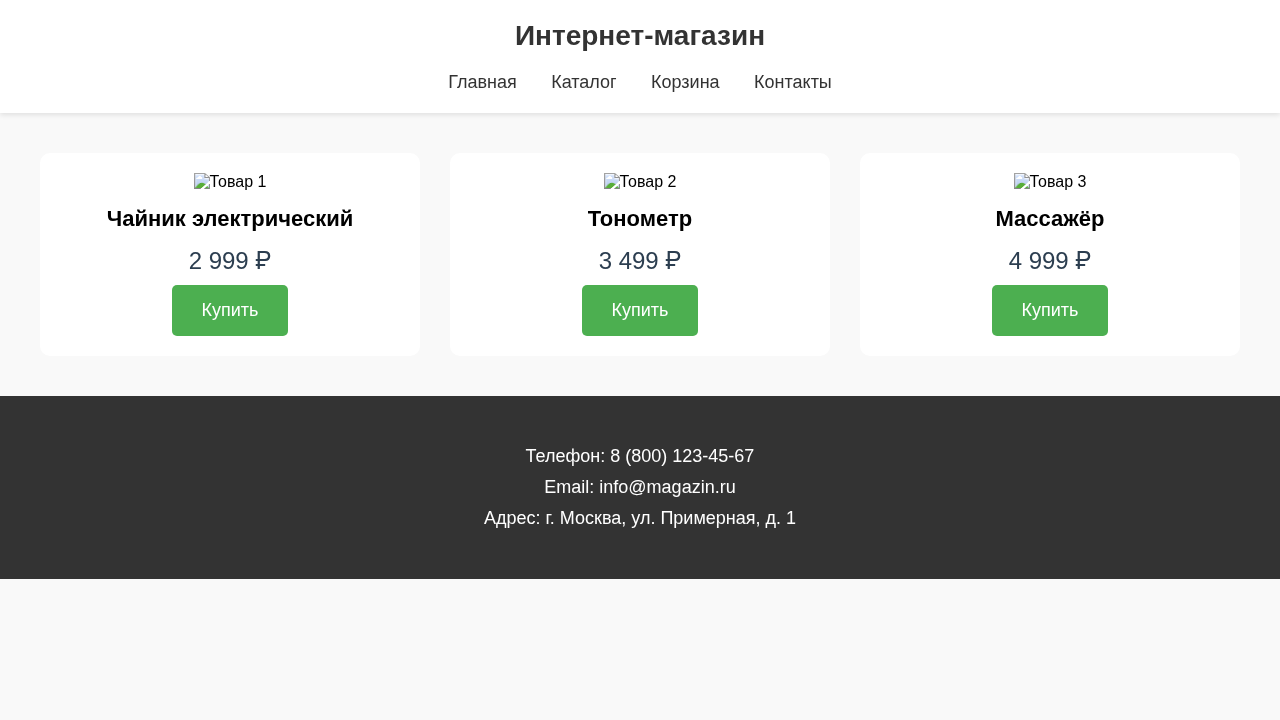
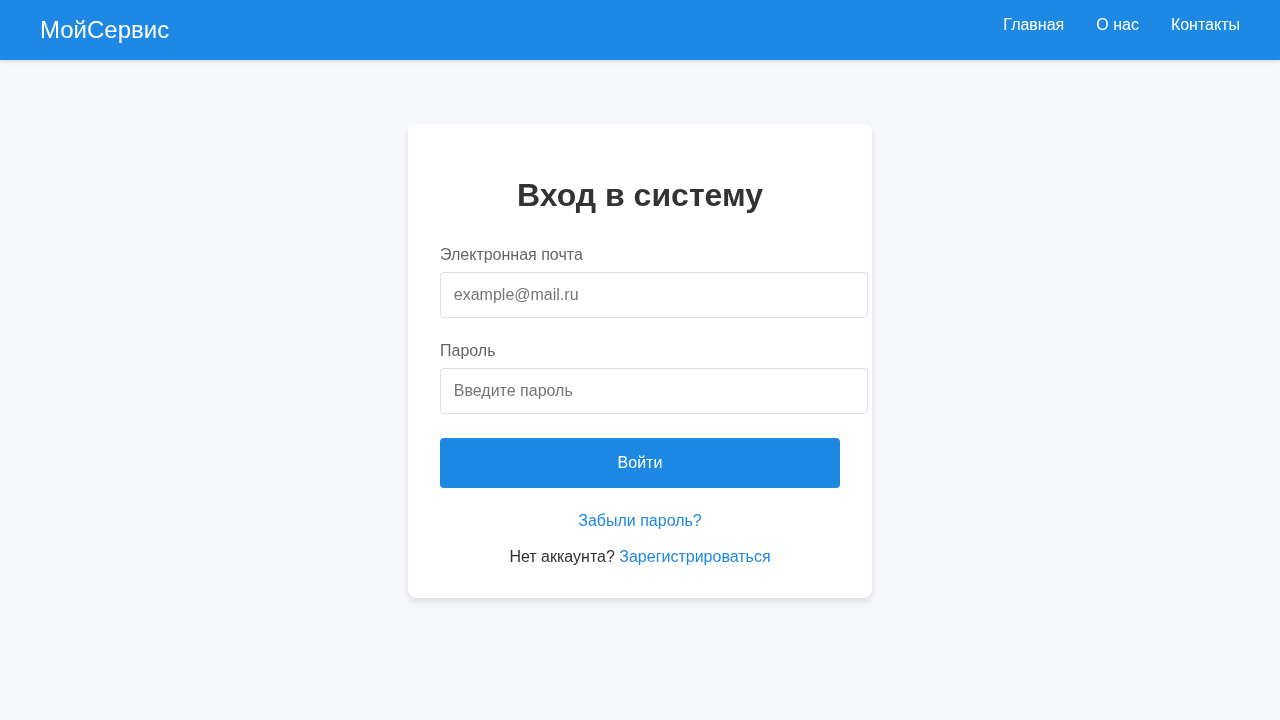
Update project structure, add local configs and fixes

diff --git a/output/prototype.html b/output/prototype.html
@@ -1,50 +1,115 @@
-<!DOCTYPE html><html lang="ru">
+<!DOCTYPE html><html>
 <head>
 <meta charset="UTF-8">
-<title>Интернет-магазин</title>
+<title>Вход в систему</title>
+<style>
+body {
+    font-family: 'Roboto', Arial, sans-serif;
+    margin: 0;
+    padding: 0;
+    background-color: #f5f7fa;
+    color: #333;
+}
+.header {
+    background-color: #1e88e5;
+    padding: 1rem;
+    box-shadow: 0 2px 4px rgba(0,0,0,0.1);
+}
+.nav {
+    display: flex;
+    justify-content: space-between;
+    max-width: 1200px;
+    margin: 0 auto;
+}
+.logo {
+    color: white;
+    font-size: 1.5rem;
+    text-decoration: none;
+}
+.menu {
+    display: flex;
+    gap: 2rem;
+}
+.menu a {
+    color: white;
+    text-decoration: none;
+}
+.container {
+    max-width: 400px;
+    margin: 4rem auto;
+    padding: 2rem;
+    background: white;
+    border-radius: 8px;
+    box-shadow: 0 4px 6px rgba(0,0,0,0.1);
+}
+.form-group {
+    margin-bottom: 1.5rem;
+}
+label {
+    display: block;
+    margin-bottom: 0.5rem;
+    color: #666;
+}
+input {
+    width: 100%;
+    padding: 0.8rem;
+    border: 1px solid #ddd;
+    border-radius: 4px;
+    font-size: 1rem;
+}
+.btn {
+    background: #1e88e5;
+    color: white;
+    border: none;
+    padding: 1rem 2rem;
+    border-radius: 4px;
+    width: 100%;
+    font-size: 1rem;
+    cursor: pointer;
+}
+.btn:hover {
+    background: #1976d2;
+}
+.links {
+    margin-top: 1.5rem;
+    text-align: center;
+}
+.links a {
+    color: #1e88e5;
+    text-decoration: none;
+}
+</style>
 </head>
-<body style="margin: 0; padding: 0; font-family: Arial, sans-serif; background-color: #f9f9f9;">
-
-<header style="background-color: #fff; padding: 20px; box-shadow: 0 2px 5px rgba(0,0,0,0.1);">
-    <h1 style="text-align: center; color: #333; font-size: 28px; margin: 0;">Интернет-магазин</h1>
-    <nav style="text-align: center; margin-top: 20px;">
-        <a href="#" style="text-decoration: none; color: #333; margin: 0 15px; font-size: 18px;">Главная</a>
-        <a href="#" style="text-decoration: none; color: #333; margin: 0 15px; font-size: 18px;">Каталог</a>
-        <a href="#" style="text-decoration: none; color: #333; margin: 0 15px; font-size: 18px;">Корзина</a>
-        <a href="#" style="text-decoration: none; color: #333; margin: 0 15px; font-size: 18px;">Контакты</a>
+<body>
+<header class="header">
+    <nav class="nav">
+        <a href="#" class="logo">МойСервис</a>
+        <div class="menu">
+            <a href="#">Главная</a>
+            <a href="#">О нас</a>
+            <a href="#">Контакты</a>
+        </div>
     </nav>
 </header>
-
-<main style="max-width: 1200px; margin: 40px auto; padding: 0 20px;">
-    <div style="display: grid; grid-template-columns: repeat(3, 1fr); gap: 30px;">
-        <div style="background: white; padding: 20px; border-radius: 10px; text-align: center;">
-            <img src="product1.jpg" alt="Товар 1" style="width: 200px; height: 200px; object-fit: cover;">
-            <h3 style="font-size: 22px; margin: 15px 0;">Чайник электрический</h3>
-            <p style="font-size: 24px; color: #2c3e50; margin: 10px 0;">2 999 ₽</p>
-            <button style="background: #4CAF50; color: white; border: none; padding: 15px 30px; border-radius: 5px; font-size: 18px; cursor: pointer;">Купить</button>
+<main class="container">
+    <h1 style="text-align: center; margin-bottom: 2rem;">Вход в систему</h1>
+    <form>
+        <div class="form-group">
+            <label>Электронная почта</label>
+            <input type="email" placeholder="example@mail.ru" required>
         </div>
-
-        <div style="background: white; padding: 20px; border-radius: 10px; text-align: center;">
-            <img src="product2.jpg" alt="Товар 2" style="width: 200px; height: 200px; object-fit: cover;">
-            <h3 style="font-size: 22px; margin: 15px 0;">Тонометр</h3>
-            <p style="font-size: 24px; color: #2c3e50; margin: 10px 0;">3 499 ₽</p>
-            <button style="background: #4CAF50; color: white; border: none; padding: 15px 30px; border-radius: 5px; font-size: 18px; cursor: pointer;">Купить</button>
+        <div class="form-group">
+            <label>Пароль</label>
+            <input type="password" placeholder="Введите пароль" required>
         </div>
-
-        <div style="background: white; padding: 20px; border-radius: 10px; text-align: center;">
-            <img src="product3.jpg" alt="Товар 3" style="width: 200px; height: 200px; object-fit: cover;">
-            <h3 style="font-size: 22px; margin: 15px 0;">Массажёр</h3>
-            <p style="font-size: 24px; color: #2c3e50; margin: 10px 0;">4 999 ₽</p>
-            <button style="background: #4CAF50; color: white; border: none; padding: 15px 30px; border-radius: 5px; font-size: 18px; cursor: pointer;">Купить</button>
-        </div>
+        <button type="submit" class="btn">Войти</button>
+    </form>
+    <div class="links">
+        <a href="#">Забыли пароль?</a>
+        <br><br>
+        <span>Нет аккаунта? </span>
+        <a href="#">Зарегистрироваться</a>
     </div>
 </main>
-
-<footer style="background-color: #333; color: white; padding: 40px 20px; text-align: center; margin-top: 40px;">
-    <p style="font-size: 18px; margin: 10px 0;">Телефон: 8 (800) 123-45-67</p>
-    <p style="font-size: 18px; margin: 10px 0;">Email: info@magazin.ru</p>
-    <p style="font-size: 18px; margin: 10px 0;">Адрес: г. Москва, ул. Примерная, д. 1</p>
-</footer>
-
 </body>
 </html>
